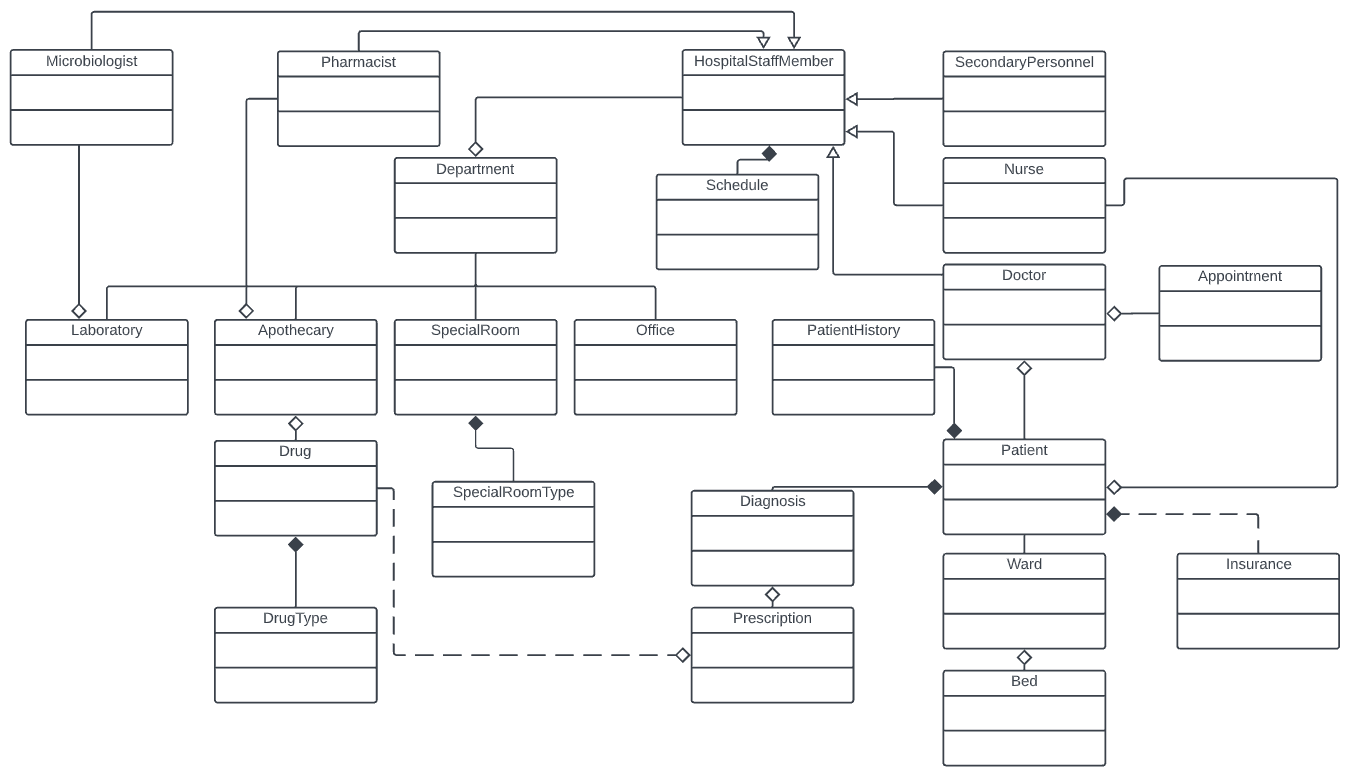
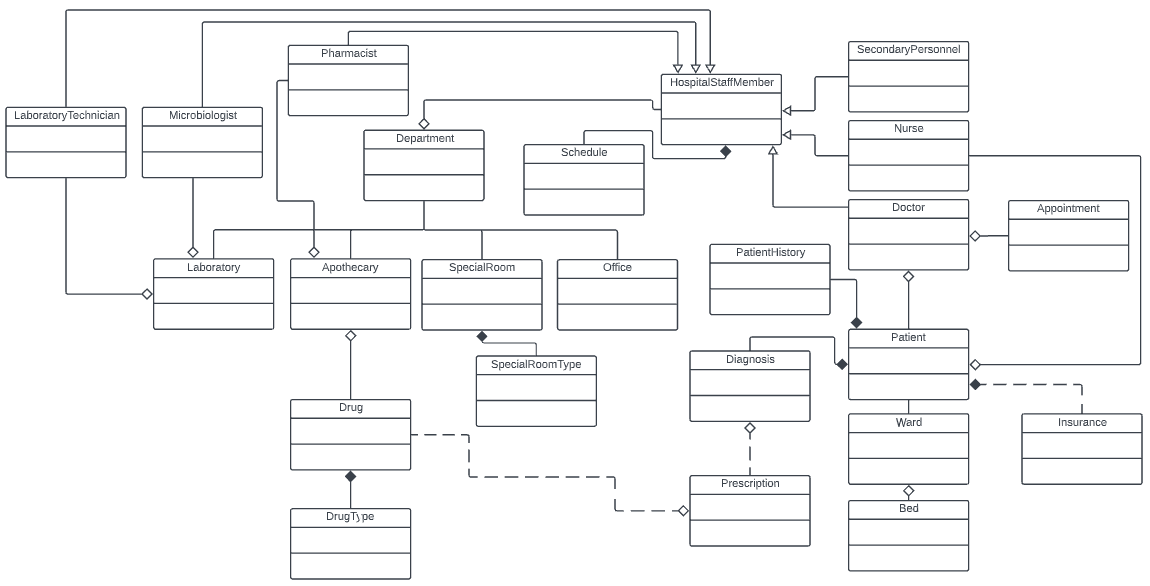
re-upload Domain-Model

Changed region(s): [[0.0, 0.0, 1.0, 1.0], [0.2435, 0.9829, 0.3652, 1.0]]

diff --git a/2nd Assignment/Domain-Model-v0.1/Domain_Model_v0_1.tex b/2nd Assignment/Domain-Model-v0.1/Domain_Model_v0_1.tex
@@ -110,6 +110,7 @@
 
 \begin{itemize}
     \item \textbf{HospitalStaffMemeber}: Είναι η βασική οντότητα που περιέχει όλο το προσωπικό του νοσοκομείου, περιλαμβάνει ιδιότητες μοναδικές για κάθε άτομο (π.χ. ονοματεπώνυμο, αφμ, μισθος κ.α.).
+    \item \textbf{LaboratoryTechnician}: Ειδίκευση της οντότητας του προσωπικού. Υπεύθυνος για τη λειτουργεια του Laboratory (εργαστηρίου).
     \item \textbf{Microbiologist}: Ειδίκευση της οντότητας του προσωπικού. Υπεύθυνος για τις μικροβιολογικές εξετάσεις.
     \item \textbf{Pharmacist}: Ειδίκευση της οντότητας του προσωπικού. Υπεύθυνος διαχείρησης της οντότητας Apothecary (φαρμακείου).
     \item \textbf{Department}: Οντότητα που αναπαριστά τα διάφορα τμήματα του νοσοκομείου (π.χ. Ενδοκρινολογικό, Ακτινολογικό).
